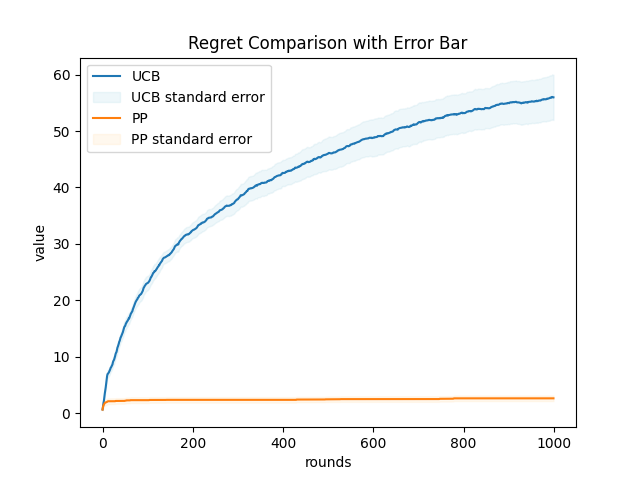
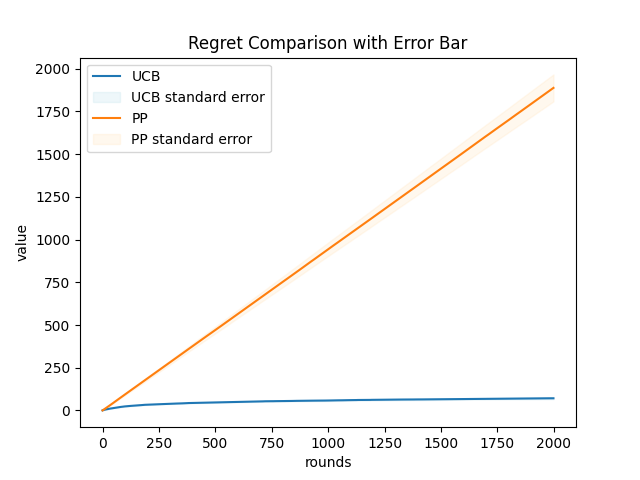
generate different converges plots with multiple threshold values

diff --git a/simulator.py b/simulator.py
@@ -193,7 +193,7 @@ def plot_2_data_sets_with_error_bar(rounds, algo_1_name, dataset_1, std_err_data
     plt.savefig(plot_filename)
     plt.close()
 
-def simulation(rounds=int(10000)):
+def simulation(rounds=int(2000)):
     ucb_reward_dataset = []
     ucb_regret_dataset = []
     ucb_reward_over_t = []
@@ -309,12 +309,39 @@ def simulation(rounds=int(10000)):
 
         #obtain feedback by selecting from calendars with rewards greater than or equal to the best action reward
         feedback_calendars = []
+        #experiment 1: human feedback is always optimal
+        # for calendar in possible_calendars:
+        #     calendar_reward = np.dot(preference, featureListGenerator(calendar, [total_slots]))
+        #     if calendar_reward >= pp_reward:
+        #         feedback_calendars.append(calendar)
+        # if not feedback_calendars:
+        #     feedback_calendars.append(best_action)
+
+        #experiment 2: human feedback is not optimal
         for calendar in possible_calendars:
             calendar_reward = np.dot(preference, featureListGenerator(calendar, [total_slots]))
-            if calendar_reward >= pp_reward:
+            if calendar_reward <= pp_reward:
                 feedback_calendars.append(calendar)
         if not feedback_calendars:
             feedback_calendars.append(best_action)
+
+        #experiment 3: human feedback is optimal with 50% probability, human feedback is not optimal with 50% probability
+        # if random.randint(0, 1) == 1:#human feedback is optimal
+        #     #obtain feedback by selecting from calendars with rewards greater than or equal to the best action reward
+        #     # feedback_calendars = []
+        #     for calendar in possible_calendars:
+        #         calendar_reward = np.dot(preference, featureListGenerator(calendar, [total_slots]))
+        #         if calendar_reward >= pp_reward:
+        #             feedback_calendars.append(calendar)
+        #     if not feedback_calendars:
+        #         feedback_calendars.append(best_action)
+        # else: #human feedback is not optimal
+        #     for calendar in possible_calendars:
+        #         calendar_reward = np.dot(preference, featureListGenerator(calendar, [total_slots]))
+        #         if calendar_reward <= pp_reward:
+        #             feedback_calendars.append(calendar)
+        #     if not feedback_calendars:
+        #         feedback_calendars.append(best_action)
 
         #Randomly select a feedback calendar
         feedback_index = np.random.choice(len(feedback_calendars))
@@ -324,7 +351,11 @@ def simulation(rounds=int(10000)):
 
         #Regret calculation
         best_possible_reward_pp = max(np.dot(preference, featureListGenerator(calendar, [total_slots])) for calendar in possible_calendars)
-        pp_total_regret += best_possible_reward_pp - pp_reward
+        # pp_total_regret += best_possible_reward_pp - pp_reward
+        # if random.randint(0, 1) == 1:
+        #     pp_total_regret += pp_reward - best_possible_reward_pp
+        # else:
+        pp_total_regret +=  best_possible_reward_pp - pp_reward
         
         phi_best_action = np.array(featureListGenerator(best_action, [total_slots]))
         phi_feedback = np.array(featureListGenerator(feedback, [total_slots]))
@@ -424,7 +455,8 @@ def main():
     
     plot_data(convergence_pp_lower_threshold_dataset, "PP Convergence Lower Threshold", "rep", "rounds", "PP Convergence", "convergence_pp_lower_threshold.png")
     plot_data(convergence_ucb_lower_threshold_dataset, "UCB Convergence Lower Threshold", "rep", "rounds", "UCB Convergence", "convergence_ucb_lower_threshold.png")
-    plot_2_data_sets(convergence_pp_lower_threshold_dataset, convergence_ucb_lower_threshold_dataset, 'PP', 'UCB', 'Convergence Lower Threshold Comparison', 'convergence_lower_threshold_comparison.png')
+    # plot_2_data_sets(convergence_pp_lower_threshold_dataset, convergence_ucb_lower_threshold_dataset, 'PP', 'UCB', 'Convergence Lower Threshold Comparison', 'convergence_lower_threshold_comparison.png')
+    plot_2_data_sets(convergence_ucb_lower_threshold_dataset, convergence_pp_lower_threshold_dataset, 'UCB', 'PP', 'Convergence Lower Threshold Comparison', 'convergence_lower_threshold_comparison.png')
 
     print("UCB Average Convergence: ", np.mean(convergence_ucb_dataset))
     print("PP Average Convergence: ", np.mean(convergence_pp_dataset))
